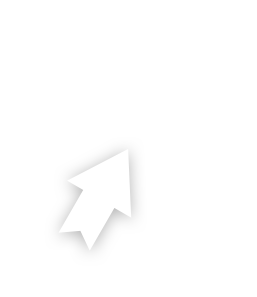
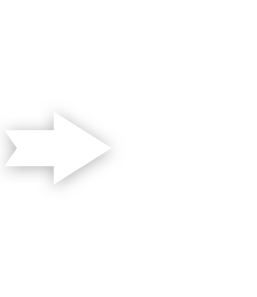
Improve arrows

diff --git a/src/game/classes/Tile.ts b/src/game/classes/Tile.ts
@@ -24,7 +24,9 @@ import Prop from '../../types/Prop'
 import createProp from '../../utils/createProp'
 import TileImageArray from '../../types/TileImageArray'
 import { Sprite, Loader } from 'pixi.js'
-import getRotationBySide from '../functions/getRotationBySide'
+import getRotationBySide, {
+  getArrowRotationBySide,
+} from '../functions/getRotationBySide'
 import destroyImage from '../functions/destroyImage'
 import axialInDirection from '../../utils/axialInDirection'
 import getTileByAxial from '../functions/getTileByAxial'
@@ -538,8 +540,9 @@ class Tile {
         const arrow = createImage('arrow')
         arrow.x = centerPixel.x
         arrow.y = centerPixel.y
-        arrow.rotation = getRotationBySide(direction)
+        arrow.rotation = getArrowRotationBySide(direction)
         arrow.alpha = 0
+        arrow.scale.set(0)
 
         new Animation(
           arrow,
@@ -547,6 +550,7 @@ class Tile {
             image.x = centerPixel.x + (pixel.x - centerPixel.x) * fraction
             image.y = centerPixel.y + (pixel.y - centerPixel.y) * fraction
             image.alpha = fraction
+            image.scale.set(fraction)
           },
           {
             speed: 0.05,
@@ -600,6 +604,7 @@ class Tile {
             image.x = centerPixel.x + (pixel.x - centerPixel.x) * (1 - fraction)
             image.y = centerPixel.y + (pixel.y - centerPixel.y) * (1 - fraction)
             image.alpha = 1 - fraction
+            image.scale.set(1 - fraction)
           },
           {
             speed: 0.05,

diff --git a/src/game/functions/getRotationBySide.ts b/src/game/functions/getRotationBySide.ts
@@ -1,5 +1,7 @@
 const getRotationBySide = (side: number) => {
   switch (side) {
+    case 0:
+      return 0
     case 1:
       return Math.PI * (1 / 3)
     case 2:
@@ -10,9 +12,28 @@ const getRotationBySide = (side: number) => {
       return Math.PI * (-2 / 3)
     case 5:
       return Math.PI * (-1 / 3)
-    default:
-      return 0
   }
+
+  return 0
+}
+
+export const getArrowRotationBySide = (side: number) => {
+  switch (side) {
+    case 0:
+      return Math.PI * (-1 / 3)
+    case 1:
+      return 0
+    case 2:
+      return Math.PI * (1 / 3)
+    case 3:
+      return Math.PI * (2 / 3)
+    case 4:
+      return Math.PI
+    case 5:
+      return Math.PI * (-2 / 3)
+  }
+
+  return 0
 }
 
 export default getRotationBySide

diff --git a/src/constants/game.ts b/src/constants/game.ts
@@ -13,8 +13,8 @@ export const TILE_IMAGES = [
   'hpBackground',
   'hpFill',
   'armyIcon',
-  'house',
   'mountain',
+  'house',
   'tree',
   'army',
   'border',
